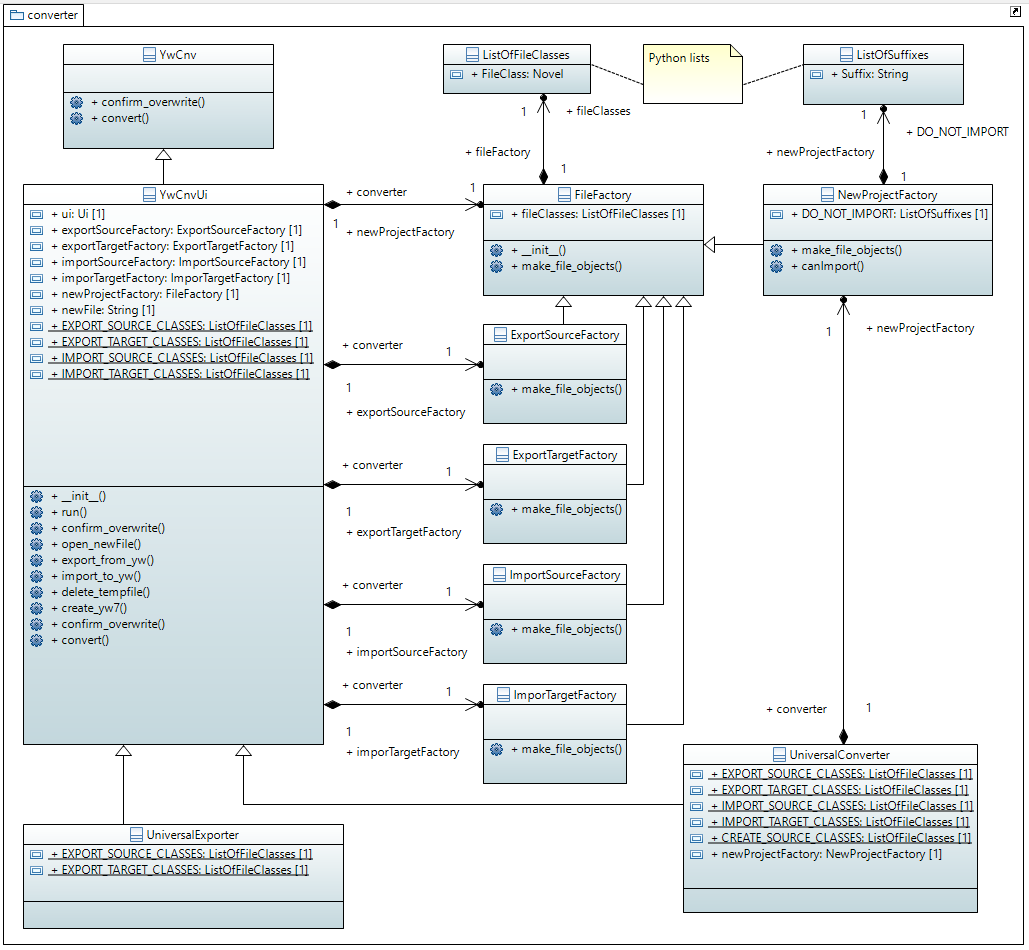
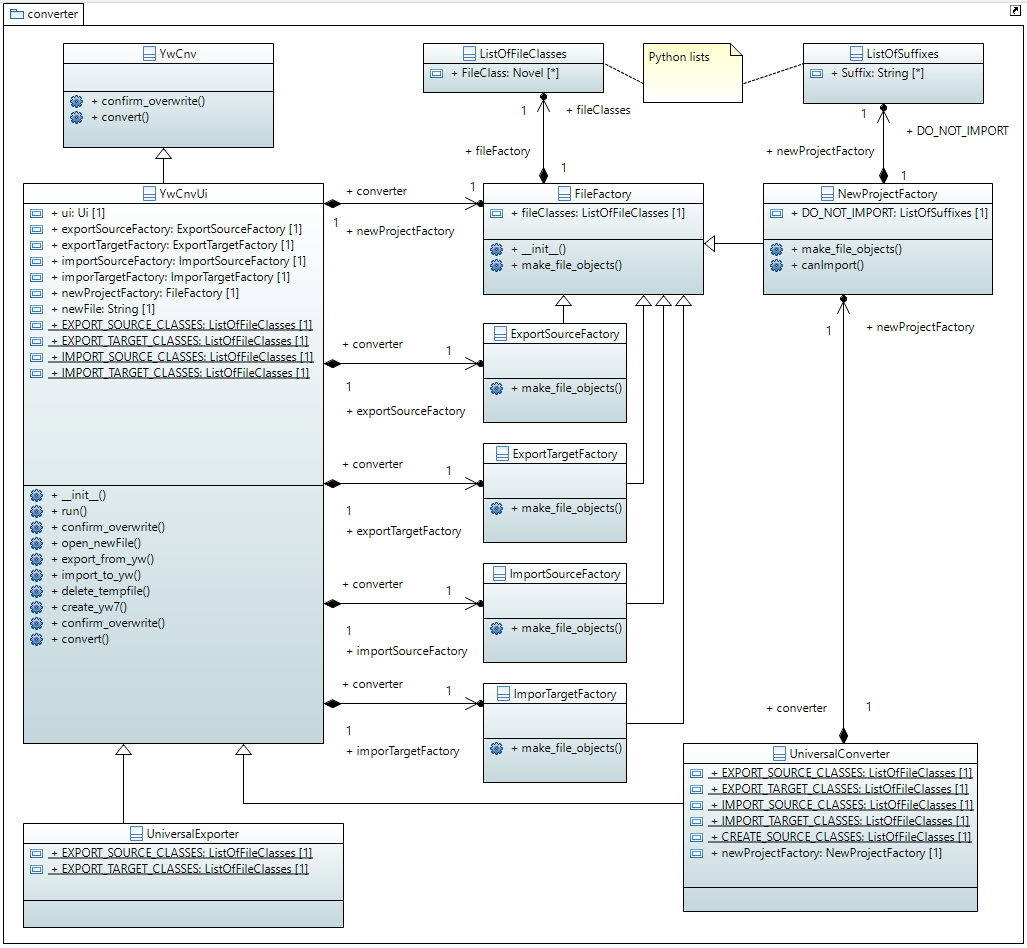
Update documentation and UML model

diff --git a/docs/model.md b/docs/model.md
@@ -17,3 +17,7 @@
 - **character** -- Provide a class for yWriter character representation.
 
 - **cross_references** -- Provide a class for yWriter cross reference generation.
+
+## Classes
+
+![model package class diagram](img/model_package_class_diagram.png)
